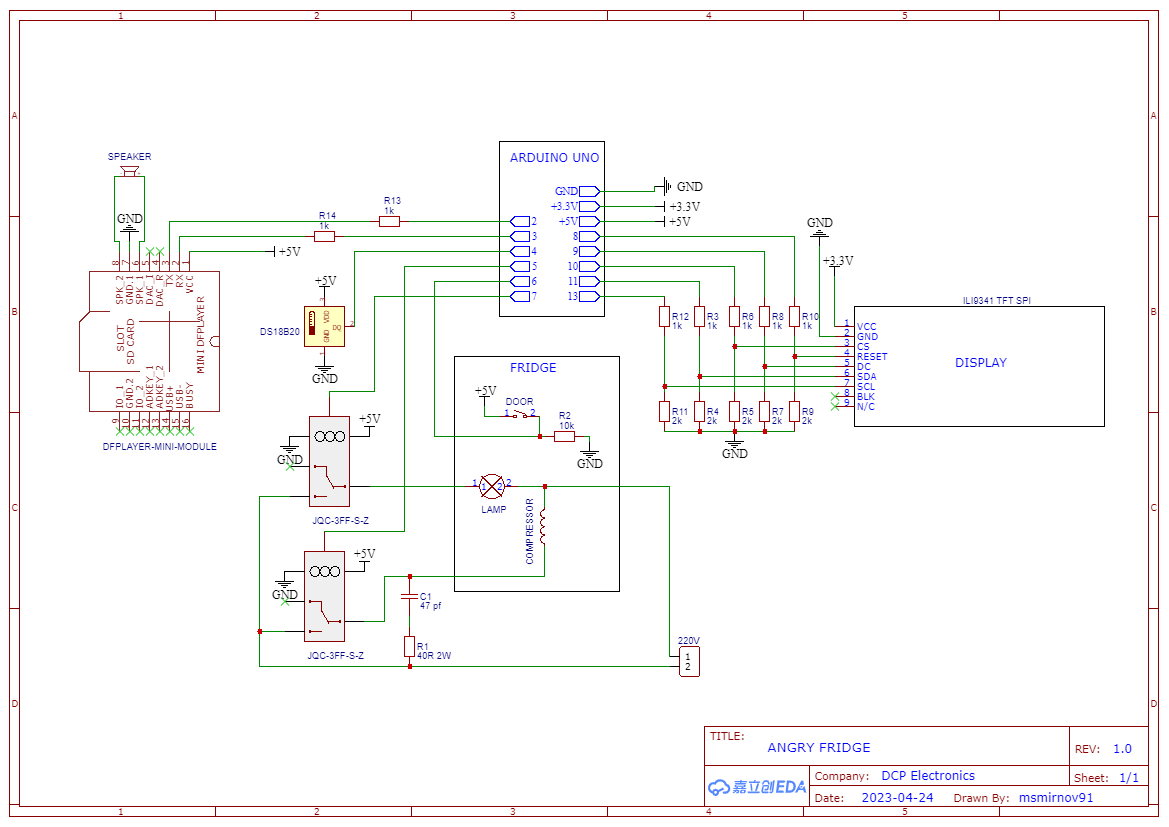
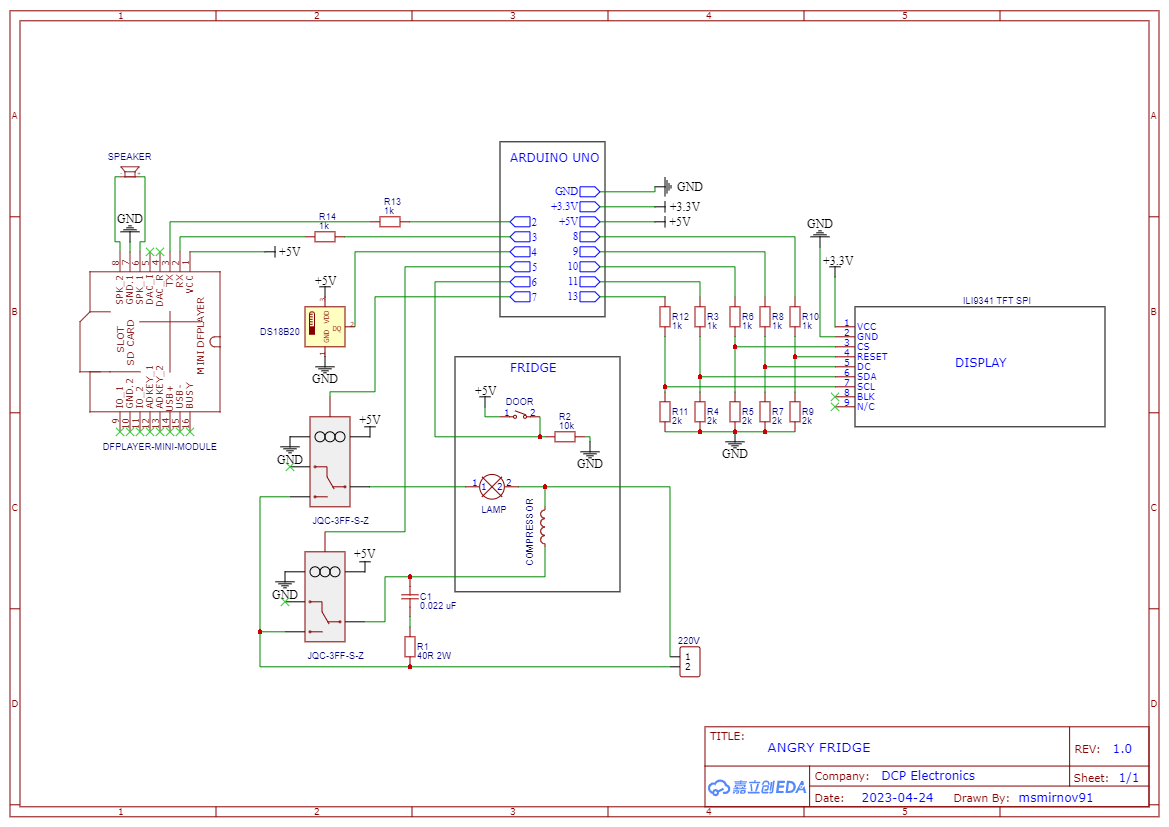
fix capacitor value

diff --git a/README.md b/README.md
@@ -22,7 +22,7 @@ The circuit is developed usnig [EasyEDA](https://easyeda.com/). Please note that
 ![Angry fridge circuit](docs/circuit.png)
 
 ## How to handle inductive load (compressor) switching
-The compressor switching may lead to high-voltage transients that can disrupt normal operation or even damage the involved equipment. This can be handled by proper `RC` - circuits. [Here](https://www.mzta.ru/images/304/iskrogasyashchiyetsepi.pdf) is a good paper describing what exactly is going on and how to calculate appropriate values of `R` and `C`. For my fridge I choosed the `47 pf` capacitor and `40 ohm` `2w` resistor.
+The compressor switching may lead to high-voltage transients that can disrupt normal operation or even damage the involved equipment. This can be handled by proper `RC` - circuits. [Here](https://www.mzta.ru/images/304/iskrogasyashchiyetsepi.pdf) is a good paper describing what exactly is going on and how to calculate appropriate values of `R` and `C`. For my fridge I choosed the `0.022 uF` capacitor and `40 ohm` `2w` resistor.
 
 ## Sounds
 Click [here](https://voxworker.com/ru) to generate mp3 by text
